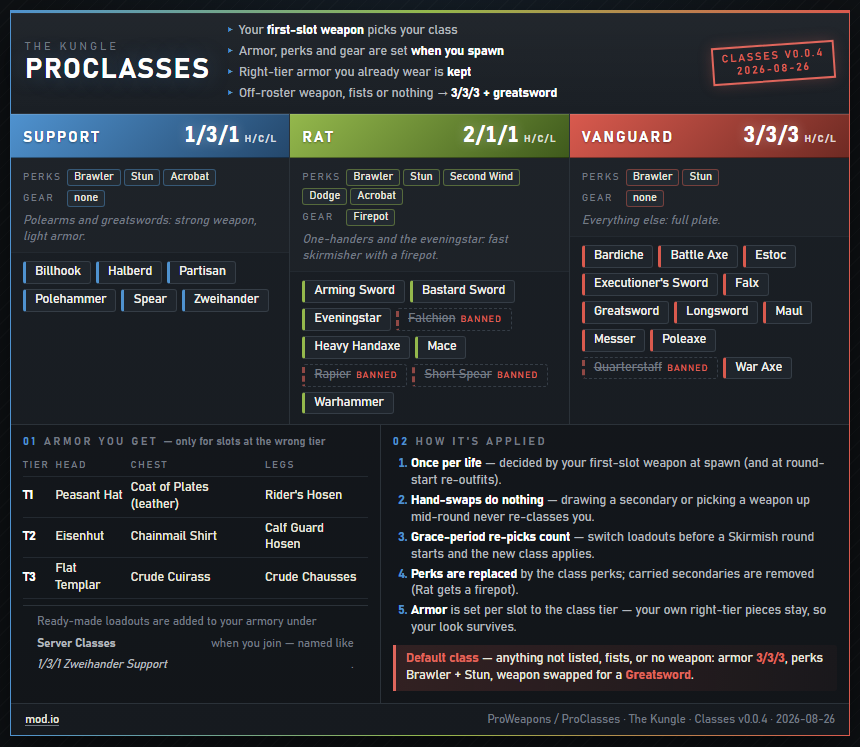
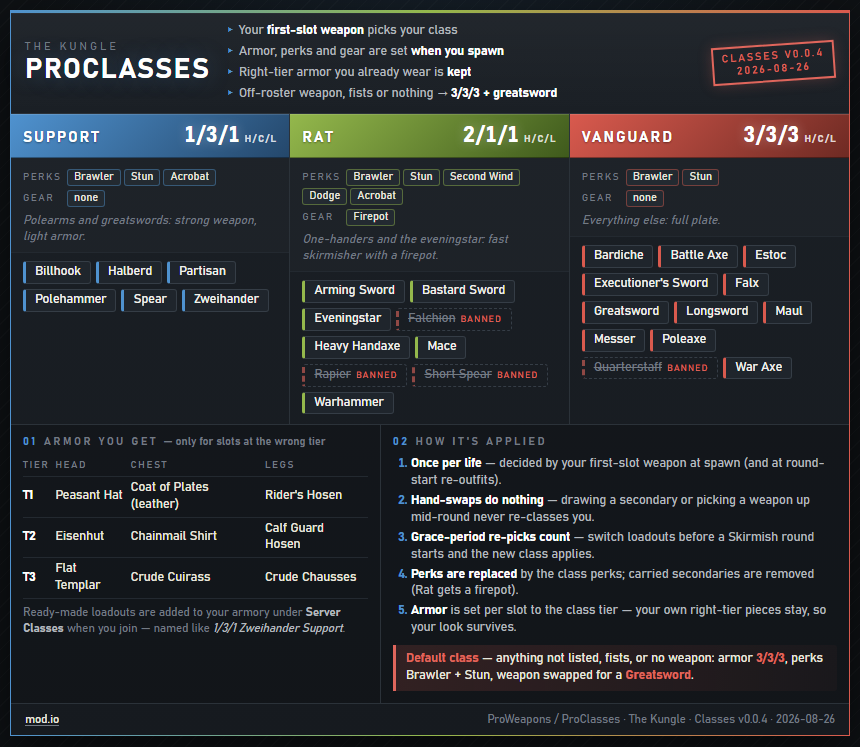
Fix footnote layout (class name collided with page footer)
Claude-Session: https://claude.ai/code/session_01TUecoxS72ihPEAhikmePeE

Changed region(s): [[0.0302, 0.8005, 0.4233, 0.8929]]

diff --git a/index.html b/index.html
@@ -196,8 +196,8 @@
   table.armor th, table.armor td { text-align: left; padding: 3px 6px 3px 0; border-bottom: 1px solid var(--rule-2); }
   table.armor th { font-size: 10px; letter-spacing: 1.5px; text-transform: uppercase; color: var(--ink-3); font-weight: 600; }
   table.armor td.t { font-weight: 700; white-space: nowrap; color: #fff; }
-  .panel p.foot { margin: 6px 0 0; color: var(--ink-3); font-size: 11.5px; }
-  .panel p.foot b, .panel p.foot i { color: var(--ink-2); }
+  .panel p.small { margin: 6px 0 0; color: var(--ink-3); font-size: 11.5px; }
+  .panel p.small b, .panel p.small i { color: var(--ink-2); }
   ol.rules { margin: 0; padding-left: 18px; font-size: 12.5px; color: var(--ink-2); }
   ol.rules li { margin: 0 0 3px; }
   ol.rules li::marker { color: var(--support); font-weight: 700; }
@@ -332,7 +332,7 @@
           <tr><td class="t">T3</td><td>Flat Templar</td><td>Crude Cuirass</td><td>Crude Chausses</td></tr>
         </tbody>
       </table>
-      <p class="foot">Ready-made loadouts are added to your armory under <b>Server Classes</b> when you join — named like <i>1/3/1 Zweihander Support</i>.</p>
+      <p class="small">Ready-made loadouts are added to your armory under <b>Server Classes</b> when you join — named like <i>1/3/1 Zweihander Support</i>.</p>
     </div>
     <div class="panel">
       <h2><b>02</b>How it's applied</h2>
